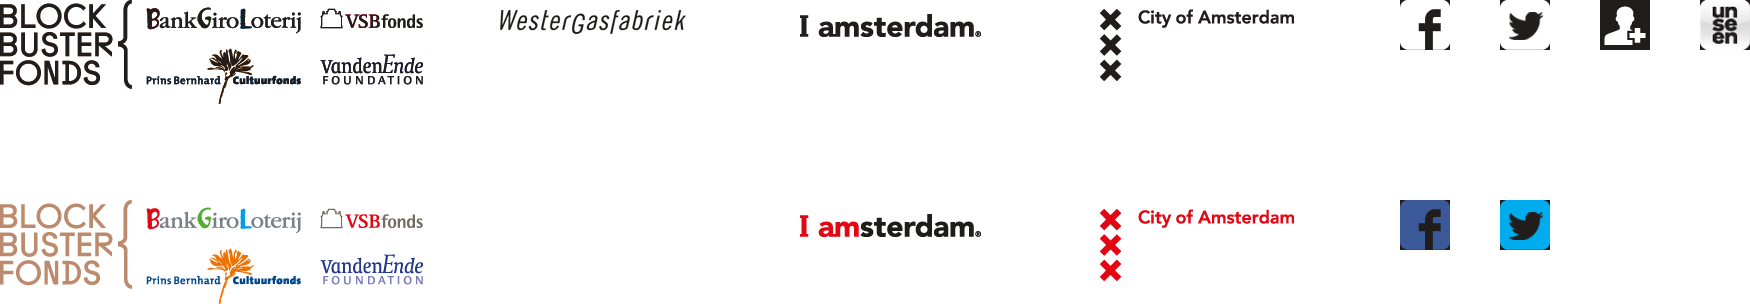
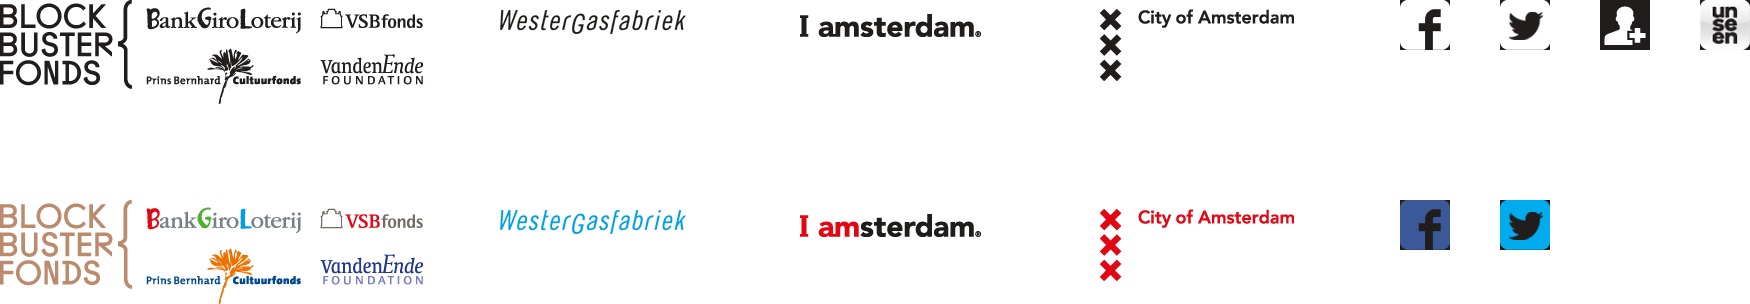
Change footer sponsor sprite

diff --git a/app/assets/stylesheets/application.css b/app/assets/stylesheets/application.css
@@ -954,13 +954,6 @@ a#social-facebook {
 	text-decoration: none;
   background-position-y:-200px;
 } 
-
-#footer-sponsors a#westergasfabriek:hover{
-  background-position-y:0px;
-}
-
-#footer-sponsors #blockbusterfonds{
-}
 #footer-sponsors #westergasfabriek{
   background-position-x:-500px;
   height:45px;
